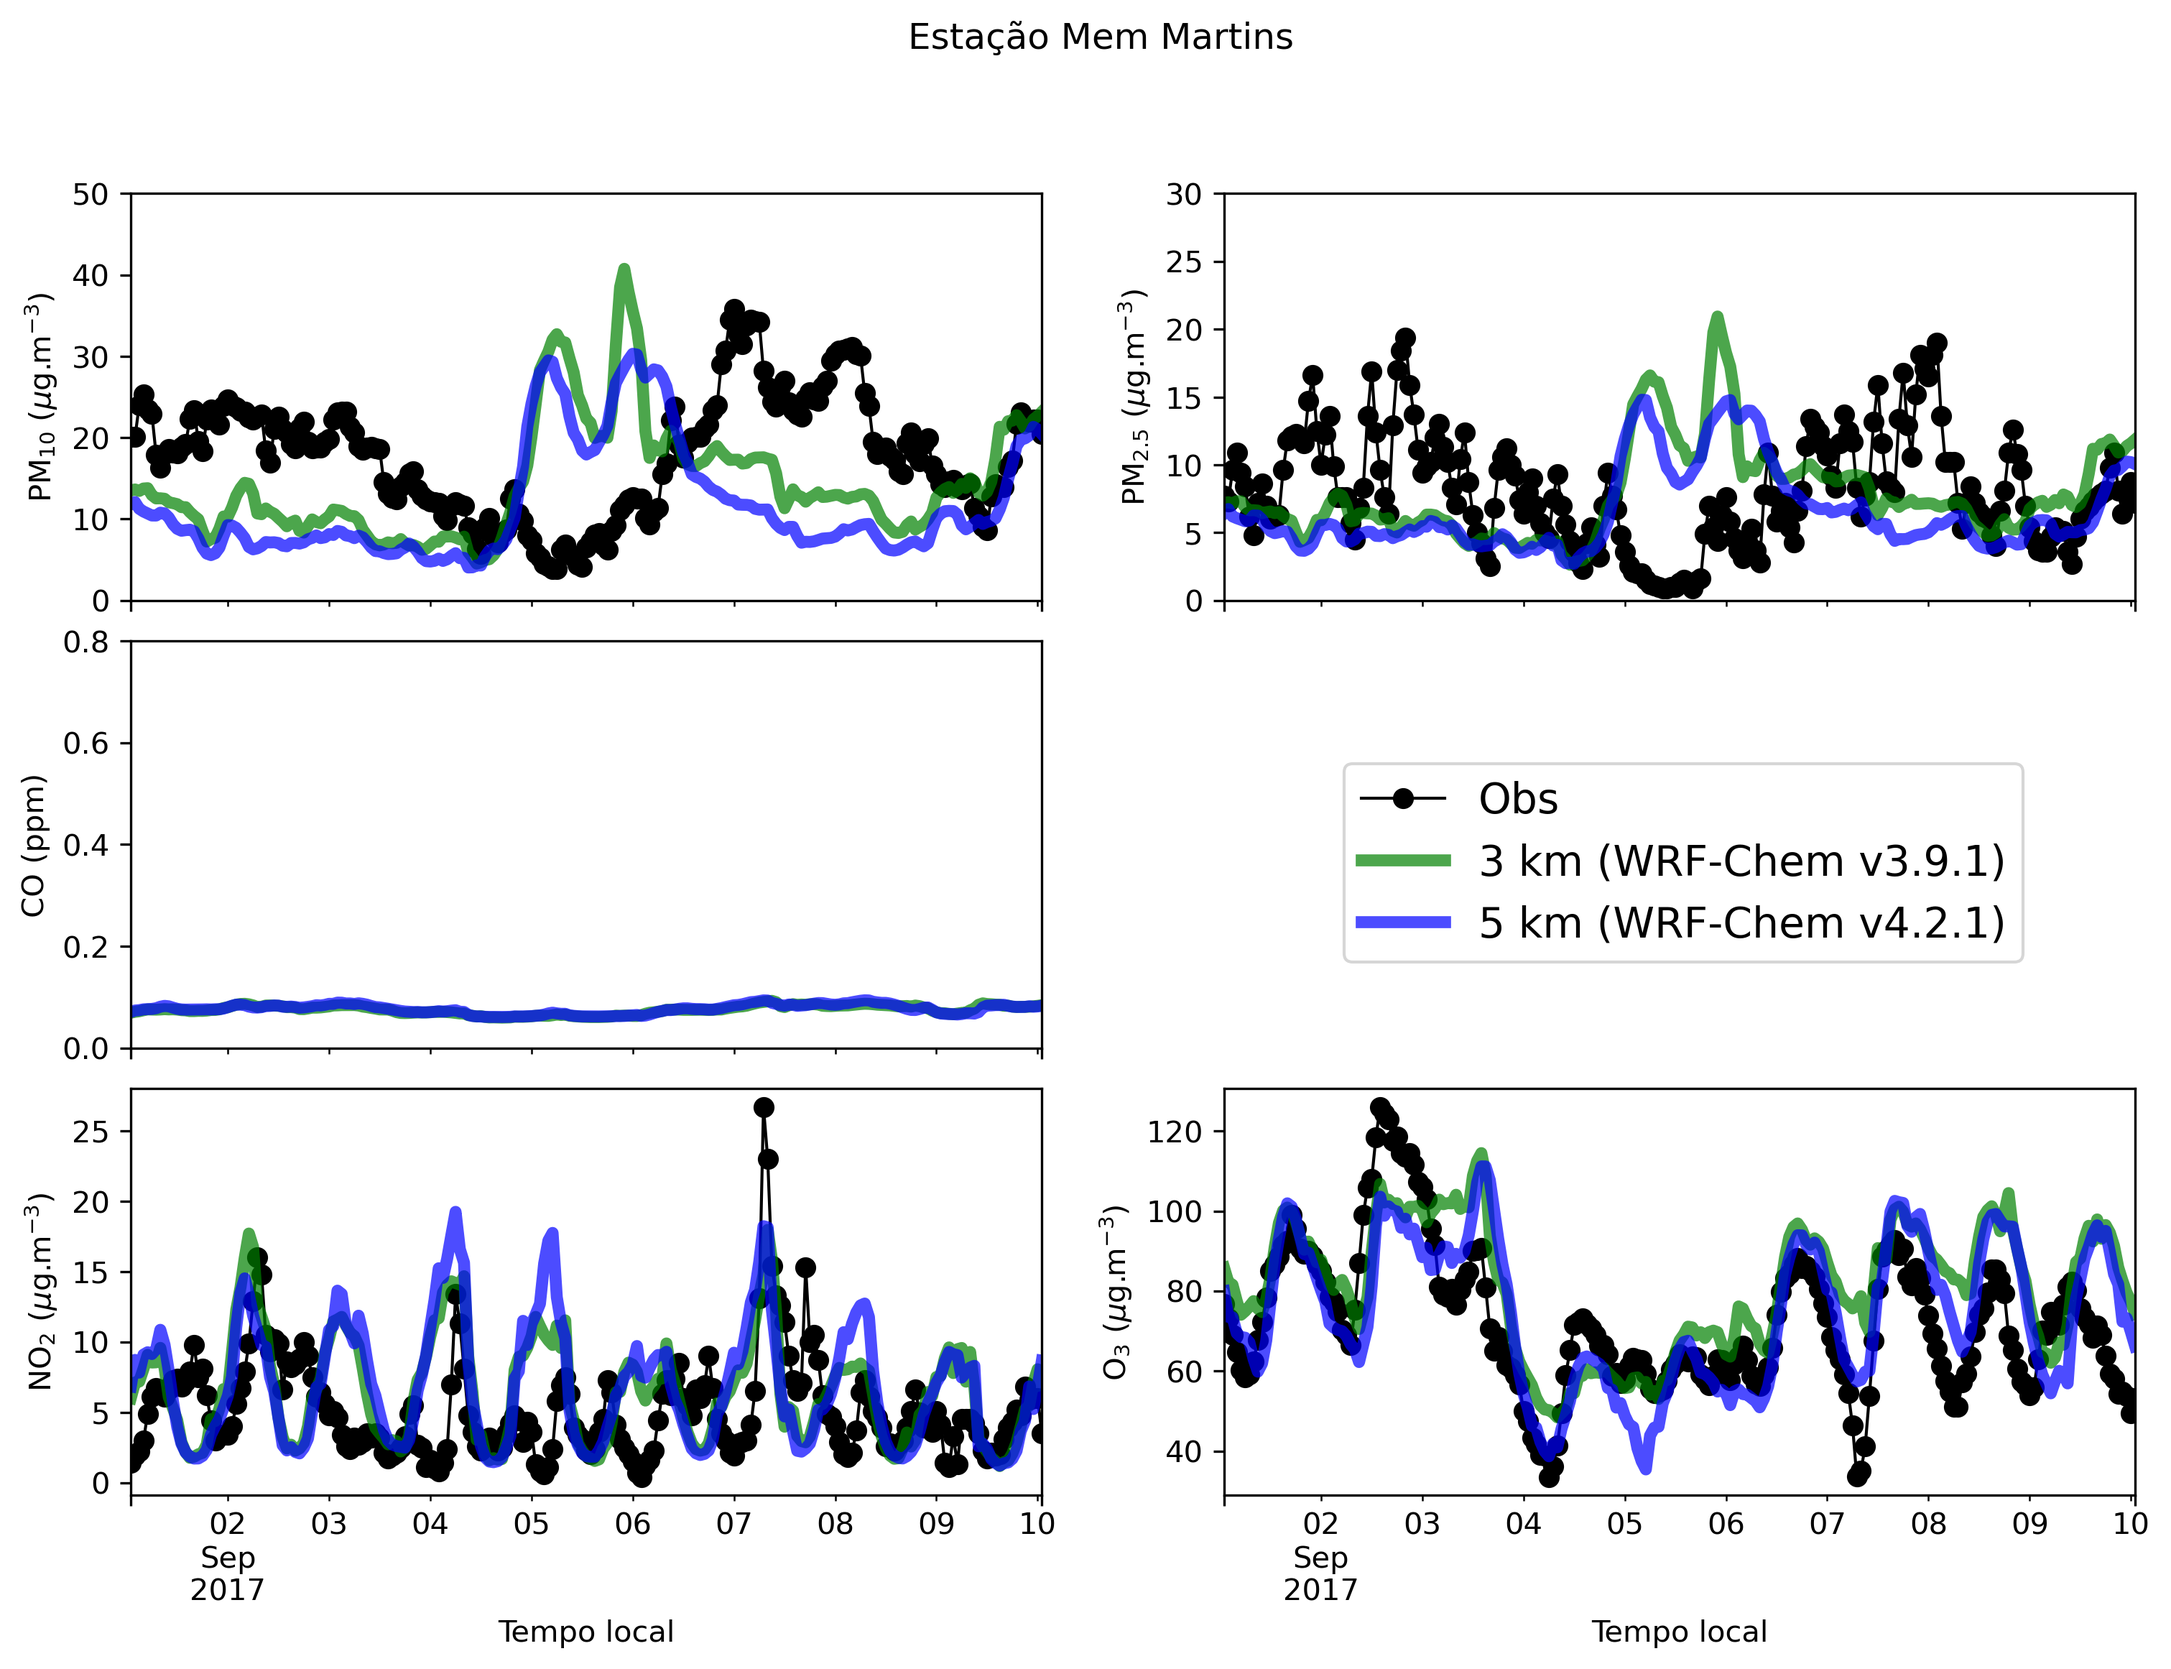
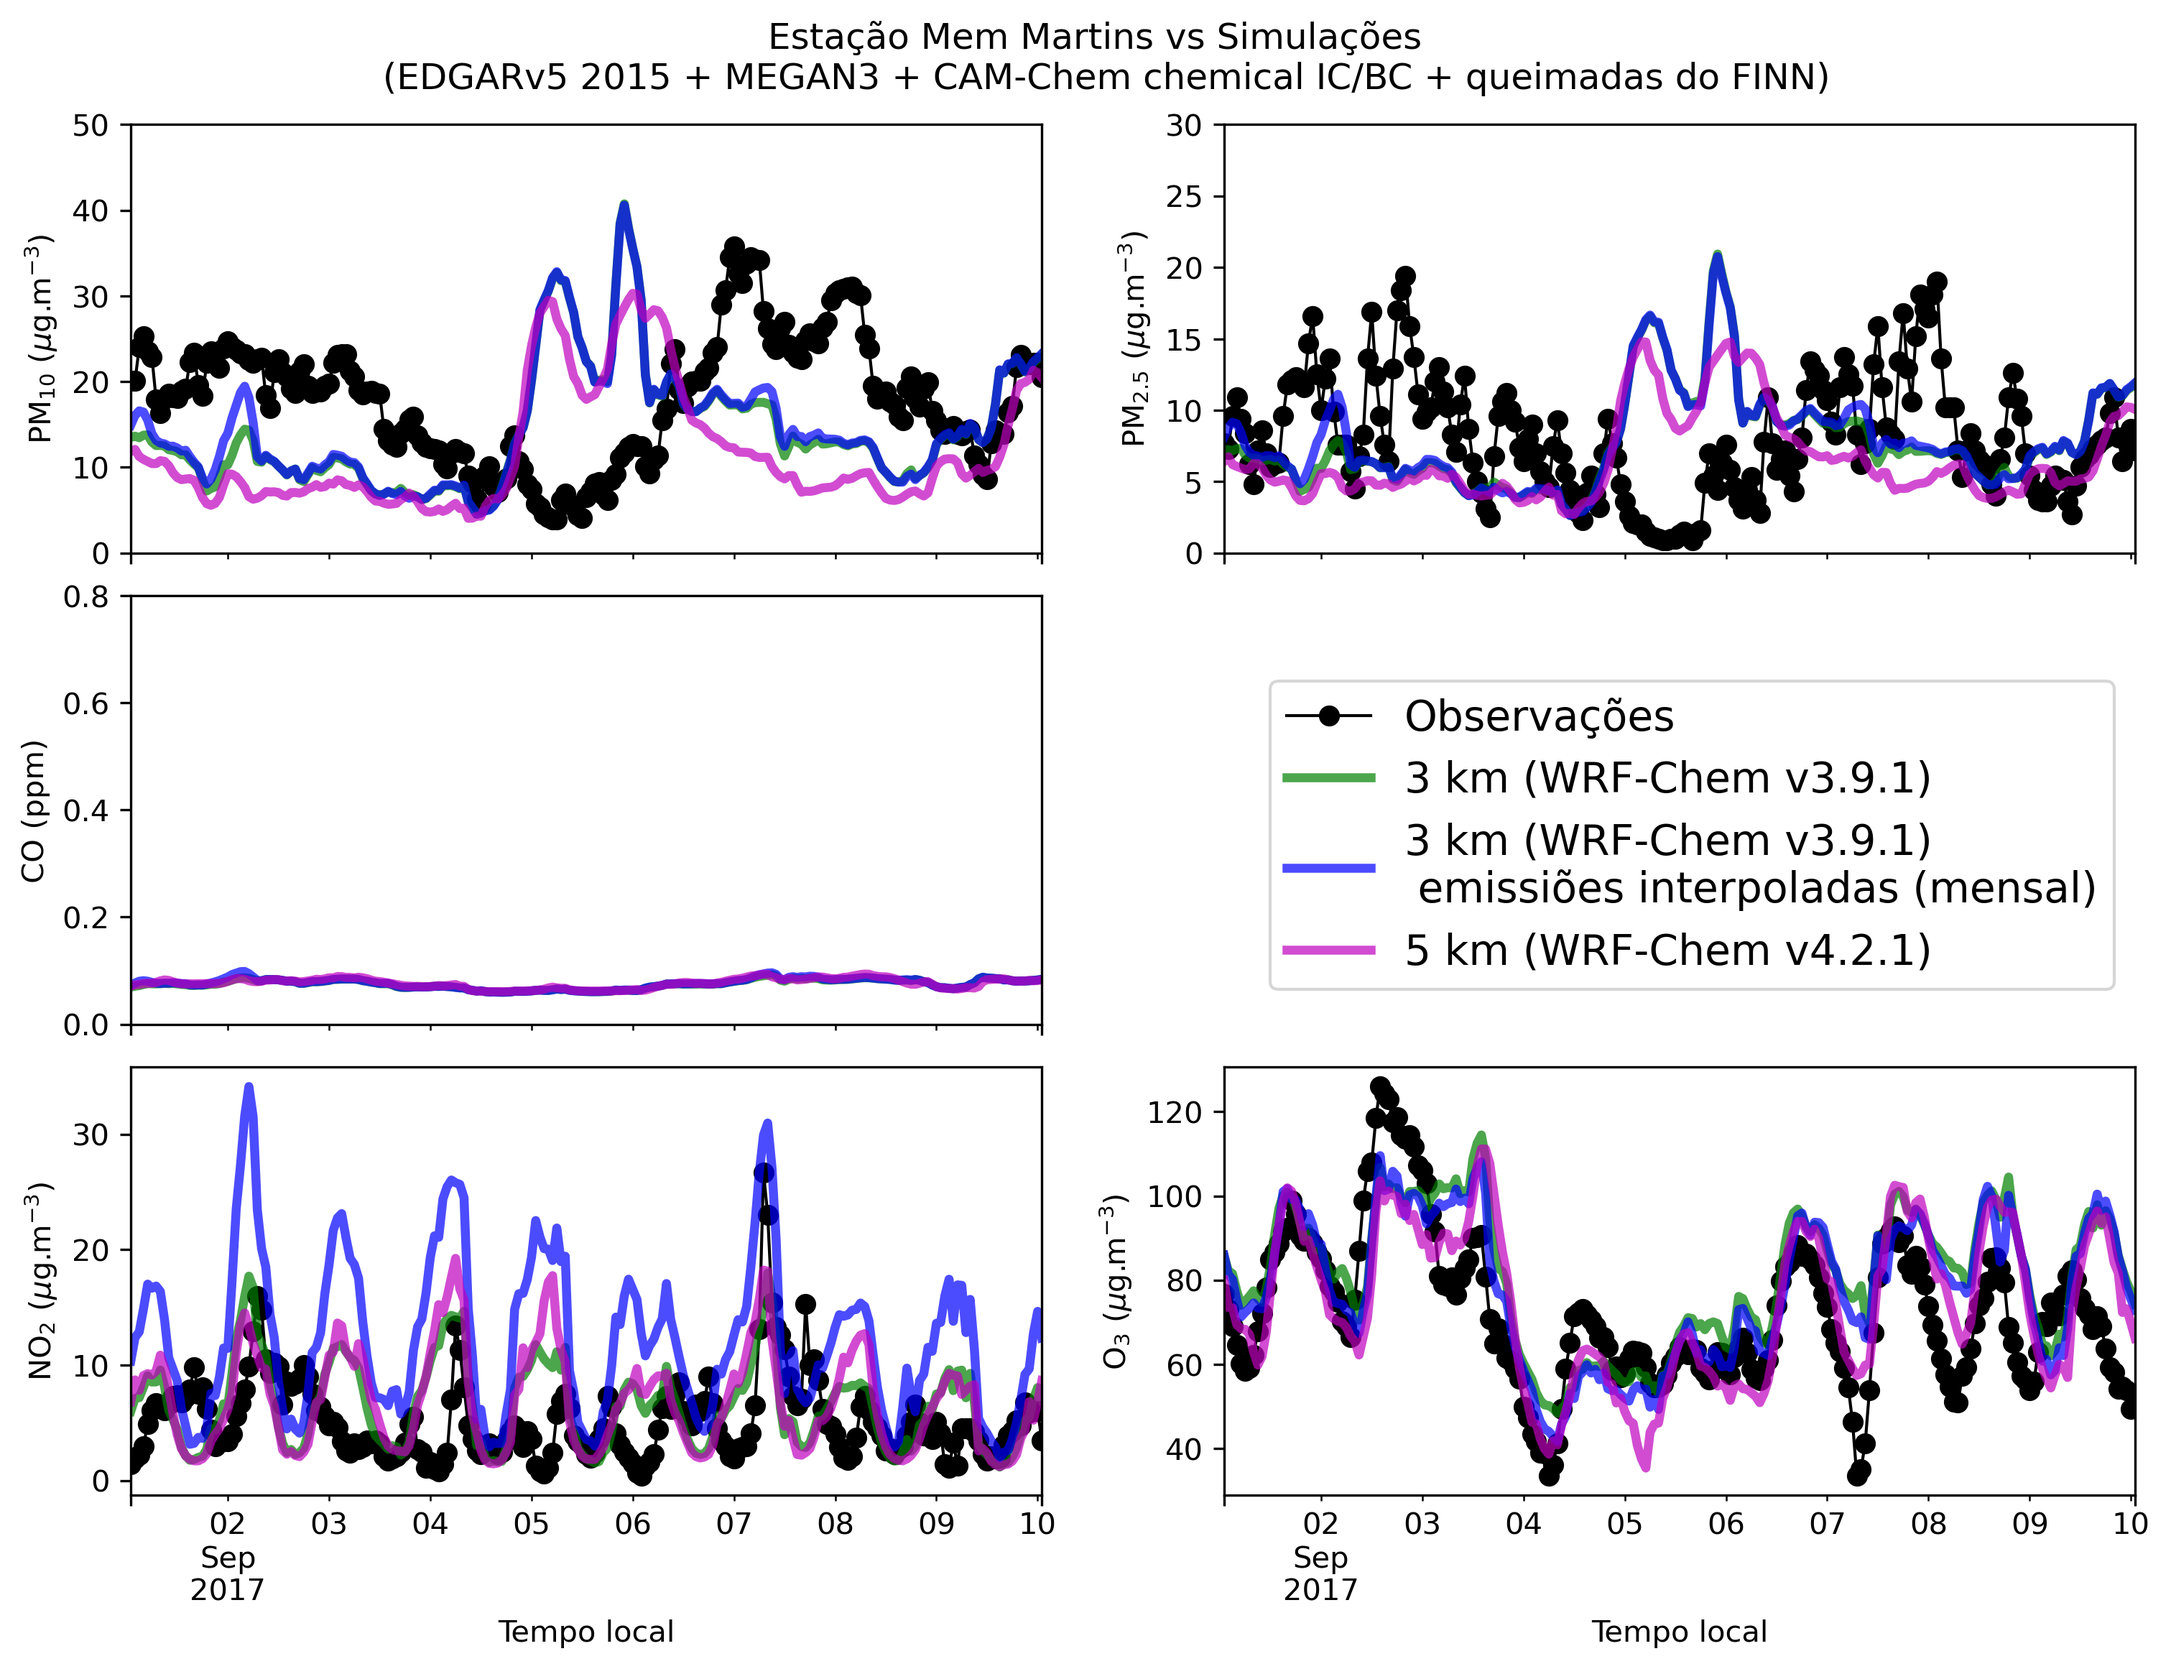
Chem analysis

diff --git a/01_scripts/02_Analysis_chem_rev_B.py b/01_scripts/02_Analysis_chem_rev_B.py
@@ -27,79 +27,94 @@ obs.drop(['so2'], axis=1, inplace=True)
 #%% Simulations using WRF-Chem
 # Mechanism = MOZCART
 
-mod1 = pkl.load(open('02_data/processed/res02_b_chem_d02_2017_'+month+'.pkl', 'rb')) # 3 km WRF-Chem v3.9.1
-mod2 = pkl.load(open('02_data/processed/lisboa_amanan_d02_2017_'+month+'.pkl', 'rb')) # 5 km WRF-Chem v4.2.1
+mod1 = pkl.load(open('02_data/processed/res02_chem_d02_2017_'+month+'.pkl', 'rb'))    # 3 km WRF-Chem v3.9.1 emission serial false
+mod2 = pkl.load(open('02_data/processed/res03_chem_d02_2017_'+month+'.pkl', 'rb'))    # 3 km WRF-Chem v3.9.1 emission serial true
+mod3 = pkl.load(open('02_data/processed/lisboa_amanan_d02_2017_'+month+'.pkl', 'rb')) # 5 km WRF-Chem v4.2.1 emission serial false
+
 
 stations = pd.read_csv('02_data/raw/air_quality/stations.csv')
-codes = list(mod2.keys())
+codes = list(mod3.keys())
 stations = stations.loc[stations.code.isin(codes),:]
 
 mod1_df = pd.DataFrame()
 mod2_df = pd.DataFrame()
+mod3_df = pd.DataFrame()
 
 for c in codes:
     print(c)
     mod1_df = pd.concat([mod1_df, mod1[c]], axis=0)
     mod2_df = pd.concat([mod2_df, mod2[c]], axis=0)
+    mod3_df = pd.concat([mod3_df, mod3[c]], axis=0)
     
 mod1_df.drop(['tc', 'rh', 'ws', 'wd', 'no'], axis=1, inplace=True)
 mod2_df.drop(['tc', 'rh', 'ws', 'wd', 'no'], axis=1, inplace=True)
+mod3_df.drop(['tc', 'rh', 'ws', 'wd', 'no'], axis=1, inplace=True)
 
 all_df1 = mod1_df.merge(obs, how='left', on=['local_date', 'code'], suffixes=['_mod1', '_obs'])
 all_df2 = mod2_df.merge(obs, how='left', on=['local_date', 'code'], suffixes=['_mod2', '_obs'])
+all_df3 = mod3_df.merge(obs, how='left', on=['local_date', 'code'], suffixes=['_mod3', '_obs'])
 
 #%% Make Plots
-def plots_by_station(nombre, all_df1, all_df2):
+def plots_by_station(nombre, all_df1, all_df2, all_df3):
     fig, ax = plt.subplots(3,2, figsize=[12,8], sharex=True, gridspec_kw={'hspace':0.1})
     name=nombre
-    plt.suptitle("Estação "+name)
+    plt.suptitle("Estação "+name + " vs Simulações \n (EDGARv5 2015 + MEGAN3 + CAM-Chem chemical IC/BC + queimadas do FINN)")
 
     # PM10
     all_df1.loc[all_df1.name == name, :].plot(x='local_date', y=['pm10_obs'], style='-ok', lw=1, ax=ax[0,0])
-    all_df1.loc[all_df1.name == name, :].plot(x='local_date', y=['pm10_mod1'], style=['-g'], lw=4, alpha=.7, ax=ax[0,0])
-    all_df2.loc[all_df2.name == name, :].plot(x='local_date', y=['pm10_mod2'], style=['-b'], lw=4, alpha=.7, ax=ax[0,0])
-    ax[0,0].legend(['Obs', '3 km (WRF-Chem v3.9.1)', '5 km (WRF-Chem v4.2.1)'], fontsize=14, bbox_to_anchor=(2.1, -0.35))
+    all_df1.loc[all_df1.name == name, :].plot(x='local_date', y=['pm10_mod1'], style=['-g'], lw=3, alpha=.7, ax=ax[0,0])
+    all_df2.loc[all_df2.name == name, :].plot(x='local_date', y=['pm10_mod2'], style=['-b'], lw=3, alpha=.7, ax=ax[0,0])
+    all_df3.loc[all_df3.name == name, :].plot(x='local_date', y=['pm10_mod3'], style=['-m'], lw=3, alpha=.7, ax=ax[0,0])
+    ax[0,0].legend(['Observações', 
+                    '3 km (WRF-Chem v3.9.1)', 
+                    '3 km (WRF-Chem v3.9.1) \n emissiões interpoladas (mensal)', 
+                    '5 km (WRF-Chem v4.2.1)'], fontsize=14, bbox_to_anchor=(2.2, -0.25))
     ax[0,0].set_ylim([0, 50])
     ax[0,0].set_ylabel('PM$_{10}$ ($\mu$g.m$^{-3}$)')
 
     # PM2,5
     all_df1.loc[all_df1.name == name, :].plot(x='local_date', y=['pm2.5_obs'], style='-ok', lw=1, ax=ax[0,1])
-    all_df1.loc[all_df1.name == name, :].plot(x='local_date', y=['pm2.5_mod1'], style=['-g'], lw=4, alpha=.7, ax=ax[0,1])
-    all_df2.loc[all_df2.name == name, :].plot(x='local_date', y=['pm2.5_mod2'], style=['-b'], lw=4, alpha=.7, ax=ax[0,1])
+    all_df1.loc[all_df1.name == name, :].plot(x='local_date', y=['pm2.5_mod1'], style=['-g'], lw=3, alpha=.7, ax=ax[0,1])
+    all_df2.loc[all_df2.name == name, :].plot(x='local_date', y=['pm2.5_mod2'], style=['-b'], lw=3, alpha=.7, ax=ax[0,1])
+    all_df3.loc[all_df3.name == name, :].plot(x='local_date', y=['pm2.5_mod3'], style=['-m'], lw=3, alpha=.7, ax=ax[0,1])
     ax[0,1].get_legend().remove()
     ax[0,1].set_ylim([0, 30])
     ax[0,1].set_ylabel('PM$_{2.5}$ ($\mu$g.m$^{-3}$)')
 
     # CO
     all_df1.loc[all_df1.name == name, :].plot(x='local_date', y=['co_obs'], style='-ok', lw=1, ax=ax[1,0])
-    all_df1.loc[all_df1.name == name, :].plot(x='local_date', y=['co_mod1'], style=['-g'], lw=4, alpha=.7, ax=ax[1,0])
-    all_df2.loc[all_df2.name == name, :].plot(x='local_date', y=['co_mod2'], style=['-b'], lw=4, alpha=.7, ax=ax[1,0])
+    all_df1.loc[all_df1.name == name, :].plot(x='local_date', y=['co_mod1'], style=['-g'], lw=3, alpha=.7, ax=ax[1,0])
+    all_df2.loc[all_df2.name == name, :].plot(x='local_date', y=['co_mod2'], style=['-b'], lw=3, alpha=.7, ax=ax[1,0])
+    all_df3.loc[all_df3.name == name, :].plot(x='local_date', y=['co_mod3'], style=['-m'], lw=3, alpha=.7, ax=ax[1,0])
     ax[1,0].get_legend().remove()
     ax[1,0].set_ylim([0, 0.8])
     ax[1,0].set_ylabel('CO (ppm)')
 
     # O3
     all_df1.loc[all_df1.name == name, :].plot(x='local_date', y=['o3_obs'], style='-ok', lw=1, ax=ax[2,1])
-    all_df1.loc[all_df1.name == name, :].plot(x='local_date', y=['o3_mod1'], style=['-g'], lw=4, alpha=.7, ax=ax[2,1])
-    all_df2.loc[all_df2.name == name, :].plot(x='local_date', y=['o3_mod2'], style=['-b'], lw=4, alpha=.7, ax=ax[2,1])
+    all_df1.loc[all_df1.name == name, :].plot(x='local_date', y=['o3_mod1'], style=['-g'], lw=3, alpha=.7, ax=ax[2,1])
+    all_df2.loc[all_df2.name == name, :].plot(x='local_date', y=['o3_mod2'], style=['-b'], lw=3, alpha=.7, ax=ax[2,1])
+    all_df3.loc[all_df3.name == name, :].plot(x='local_date', y=['o3_mod3'], style=['-m'], lw=3, alpha=.7, ax=ax[2,1])
     ax[2,1].get_legend().remove()
     ax[2,1].set_ylabel('O$_3$ ($\mu$g.m$^{-3}$)')
     ax[2,1].set_xlabel('Tempo local')
 
     # NO2
     all_df1.loc[all_df1.name == name, :].plot(x='local_date', y=['no2_obs'], style='-ok', lw=1, ax=ax[2,0])
-    all_df1.loc[all_df1.name == name, :].plot(x='local_date', y=['no2_mod1'], style=['-g'], lw=4, alpha=.7, ax=ax[2,0])
-    all_df2.loc[all_df2.name == name, :].plot(x='local_date', y=['no2_mod2'], style=['-b'], lw=4, alpha=.7, ax=ax[2,0])
+    all_df1.loc[all_df1.name == name, :].plot(x='local_date', y=['no2_mod1'], style=['-g'], lw=3, alpha=.7, ax=ax[2,0])
+    all_df2.loc[all_df2.name == name, :].plot(x='local_date', y=['no2_mod2'], style=['-b'], lw=3, alpha=.7, ax=ax[2,0])
+    all_df3.loc[all_df3.name == name, :].plot(x='local_date', y=['no2_mod3'], style=['-m'], lw=3, alpha=.7, ax=ax[2,0])
     ax[2,0].get_legend().remove()
     ax[2,0].set_ylabel('NO$_2$ ($\mu$g.m$^{-3}$)')
     ax[2,0].set_xlabel('Tempo local')
     
     fig.delaxes(ax[1,1])
+    fig.subplots_adjust(top=0.92)
 
     fig.savefig('03_output/fig/final/'+name+'.png', bbox_inches = 'tight', facecolor = 'w', dpi = 300)
 
 for n in stations.name:
-    plots_by_station(n, all_df1, all_df2)
+    plots_by_station(n, all_df1, all_df2, all_df3)
 
 
 
